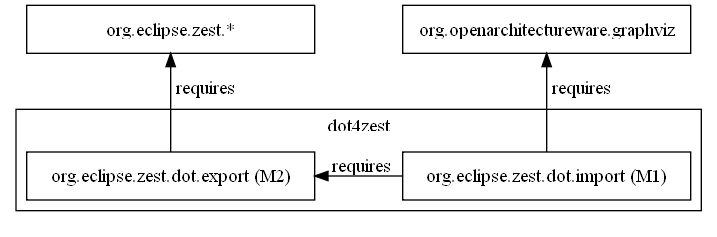
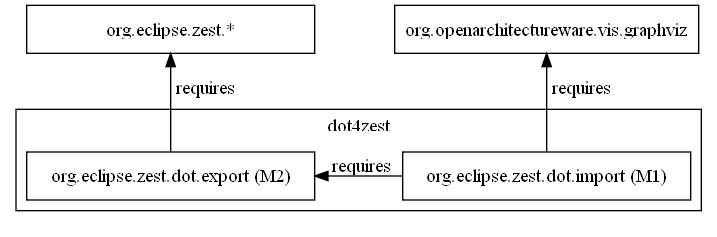
Updated documentation after switching to TMF

Changed region(s): [[0.5523, 0.0, 0.9819, 0.2363], [0.5523, 0.2068, 0.583, 0.2363]]

diff --git a/org.eclipse.zest.dot.import/documentation.html b/org.eclipse.zest.dot.import/documentation.html
@@ -14,10 +14,20 @@ available at: <a
 	href="http://wiki.eclipse.org/Graphviz_DOT_as_a_DSL_for_Zest">
 http://wiki.eclipse.org/Graphviz_DOT_as_a_DSL_for_Zest</a></i></p>
 
-<p>Requirements: Eclipse 3.4 and GEF Zest visualization (Ganymede);
-oAW 4.3.1 Graphviz feature (available from the oAW <a
-	href="http://oawbranch.pluginbuilder.org/releases/p2-updateSite/">p2
-update site</a>); org.eclipse.zest.dot.export (comes with this bundle)</p>
+<p>Requirements:
+<ul>
+	<li>Eclipse 3.5, GEF Zest visualization, Xpand, Xtext and MWE
+	0.7.0 (Galileo)</li>
+	<li>The Xtext Antlr feature 0.7.0 from
+	http://download.itemis.com/updates/ (see
+	http://www.eclipse.org/Xtext/documentation/0_7_0/xtext.html#antlr_ip_issue
+	for details)</li>
+	<li>org.openarchitectureware.vis.graphviz from the SVN at
+	http://emfmodelvisualizer.googlecode.com/svn/galileo/ (run
+	GenerateDot.mwe as workflow after the checkout)</li>
+	<li>org.eclipse.zest.dot.export (part of this project)</li>
+</ul>
+</p>
 
 <p><img src="resources/docs/dependencies.png" alt="Dependencies"></p>
 

diff --git a/org.eclipse.zest.dot.export/documentation.html b/org.eclipse.zest.dot.export/documentation.html
@@ -14,7 +14,7 @@ available at: <a
 	href="http://wiki.eclipse.org/Graphviz_DOT_as_a_DSL_for_Zest">
 http://wiki.eclipse.org/Graphviz_DOT_as_a_DSL_for_Zest</a></i></p>
 
-<p>Requirements: Eclipse 3.4 and GEF Zest visualization (Ganymede)</p>
+<p>Requirements: Eclipse 3.5 and GEF Zest visualization (Galileo)</p>
 
 <p><b>Graphviz DOT as a DSL for Zest - M2: Graphviz export for
 Zest (<a href="http://bugs.eclipse.org/277398">Bug 277398</a>)</b></p>
